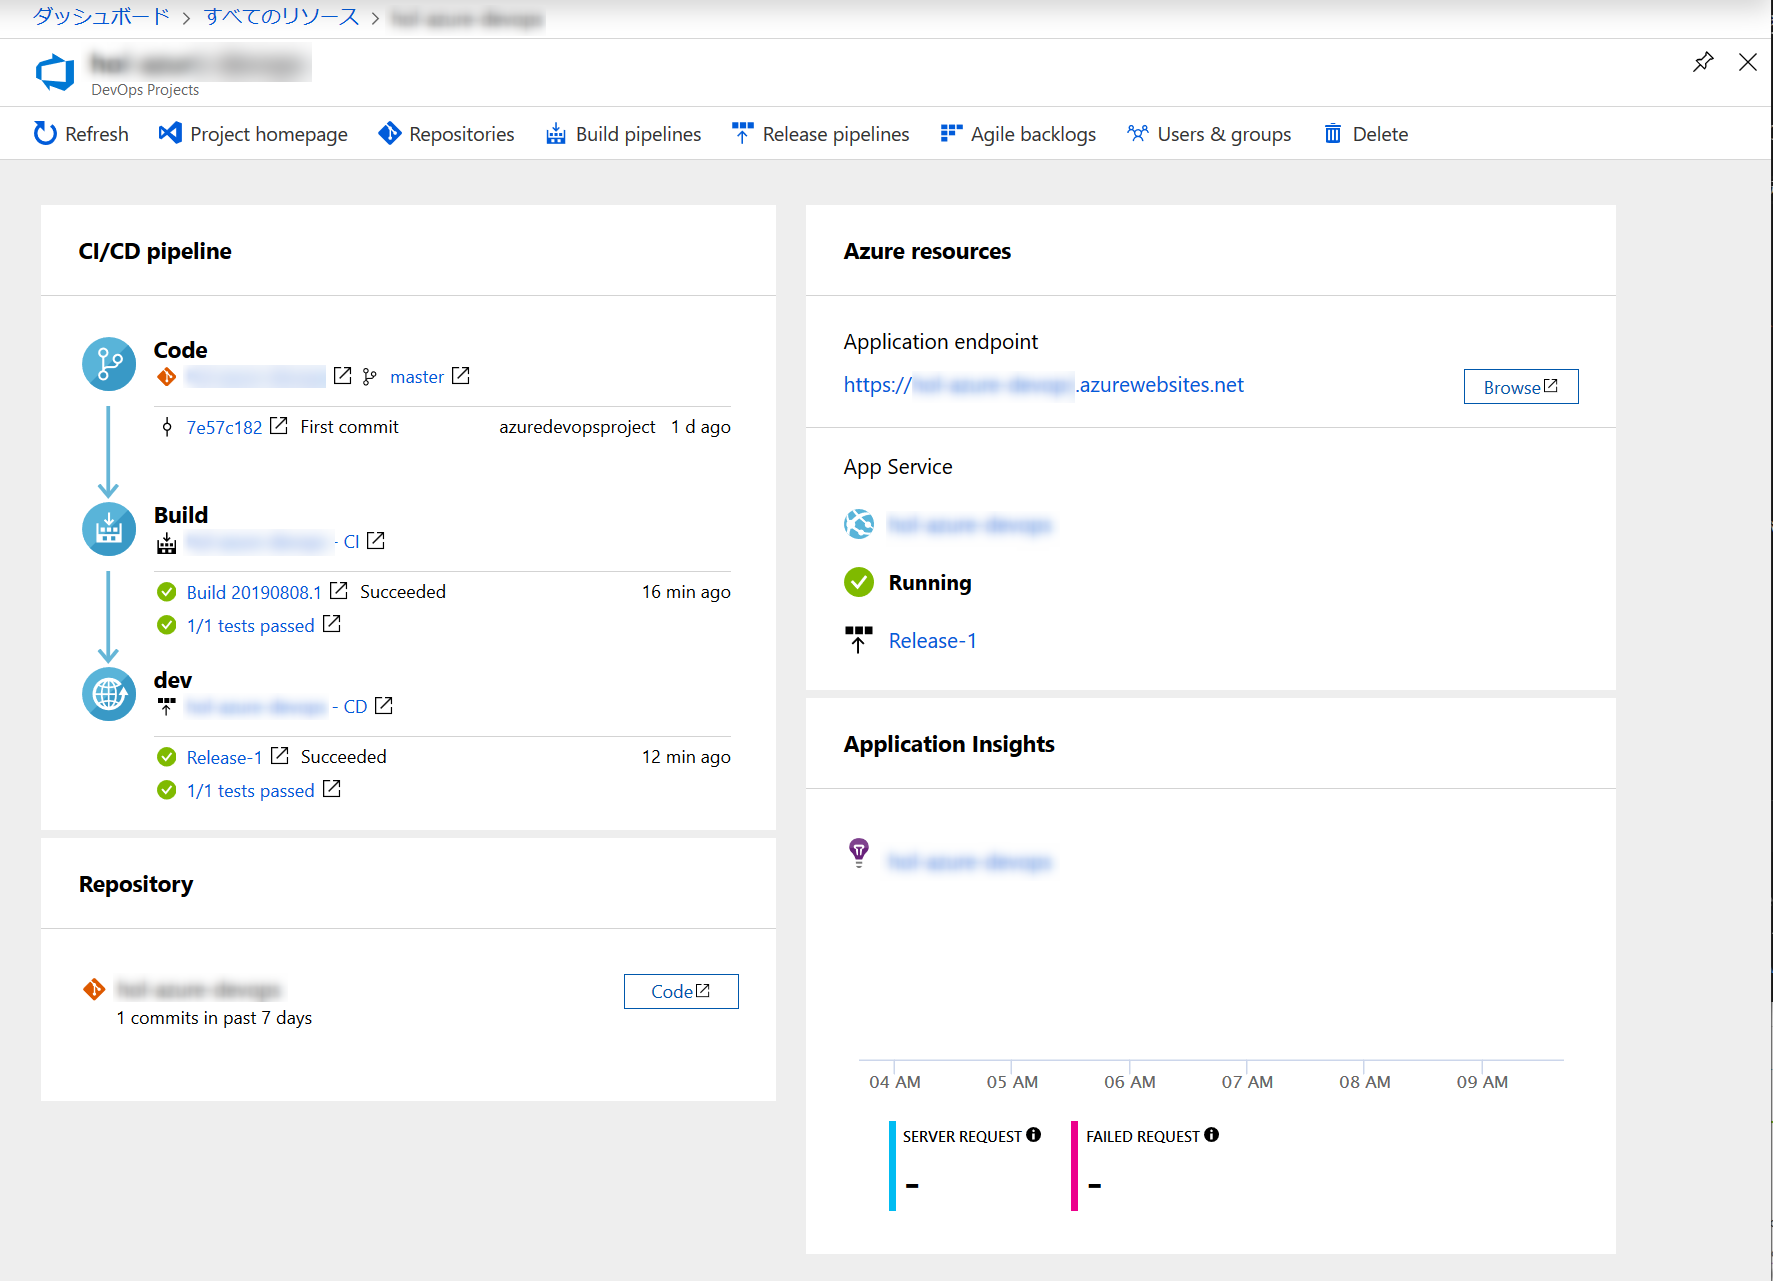
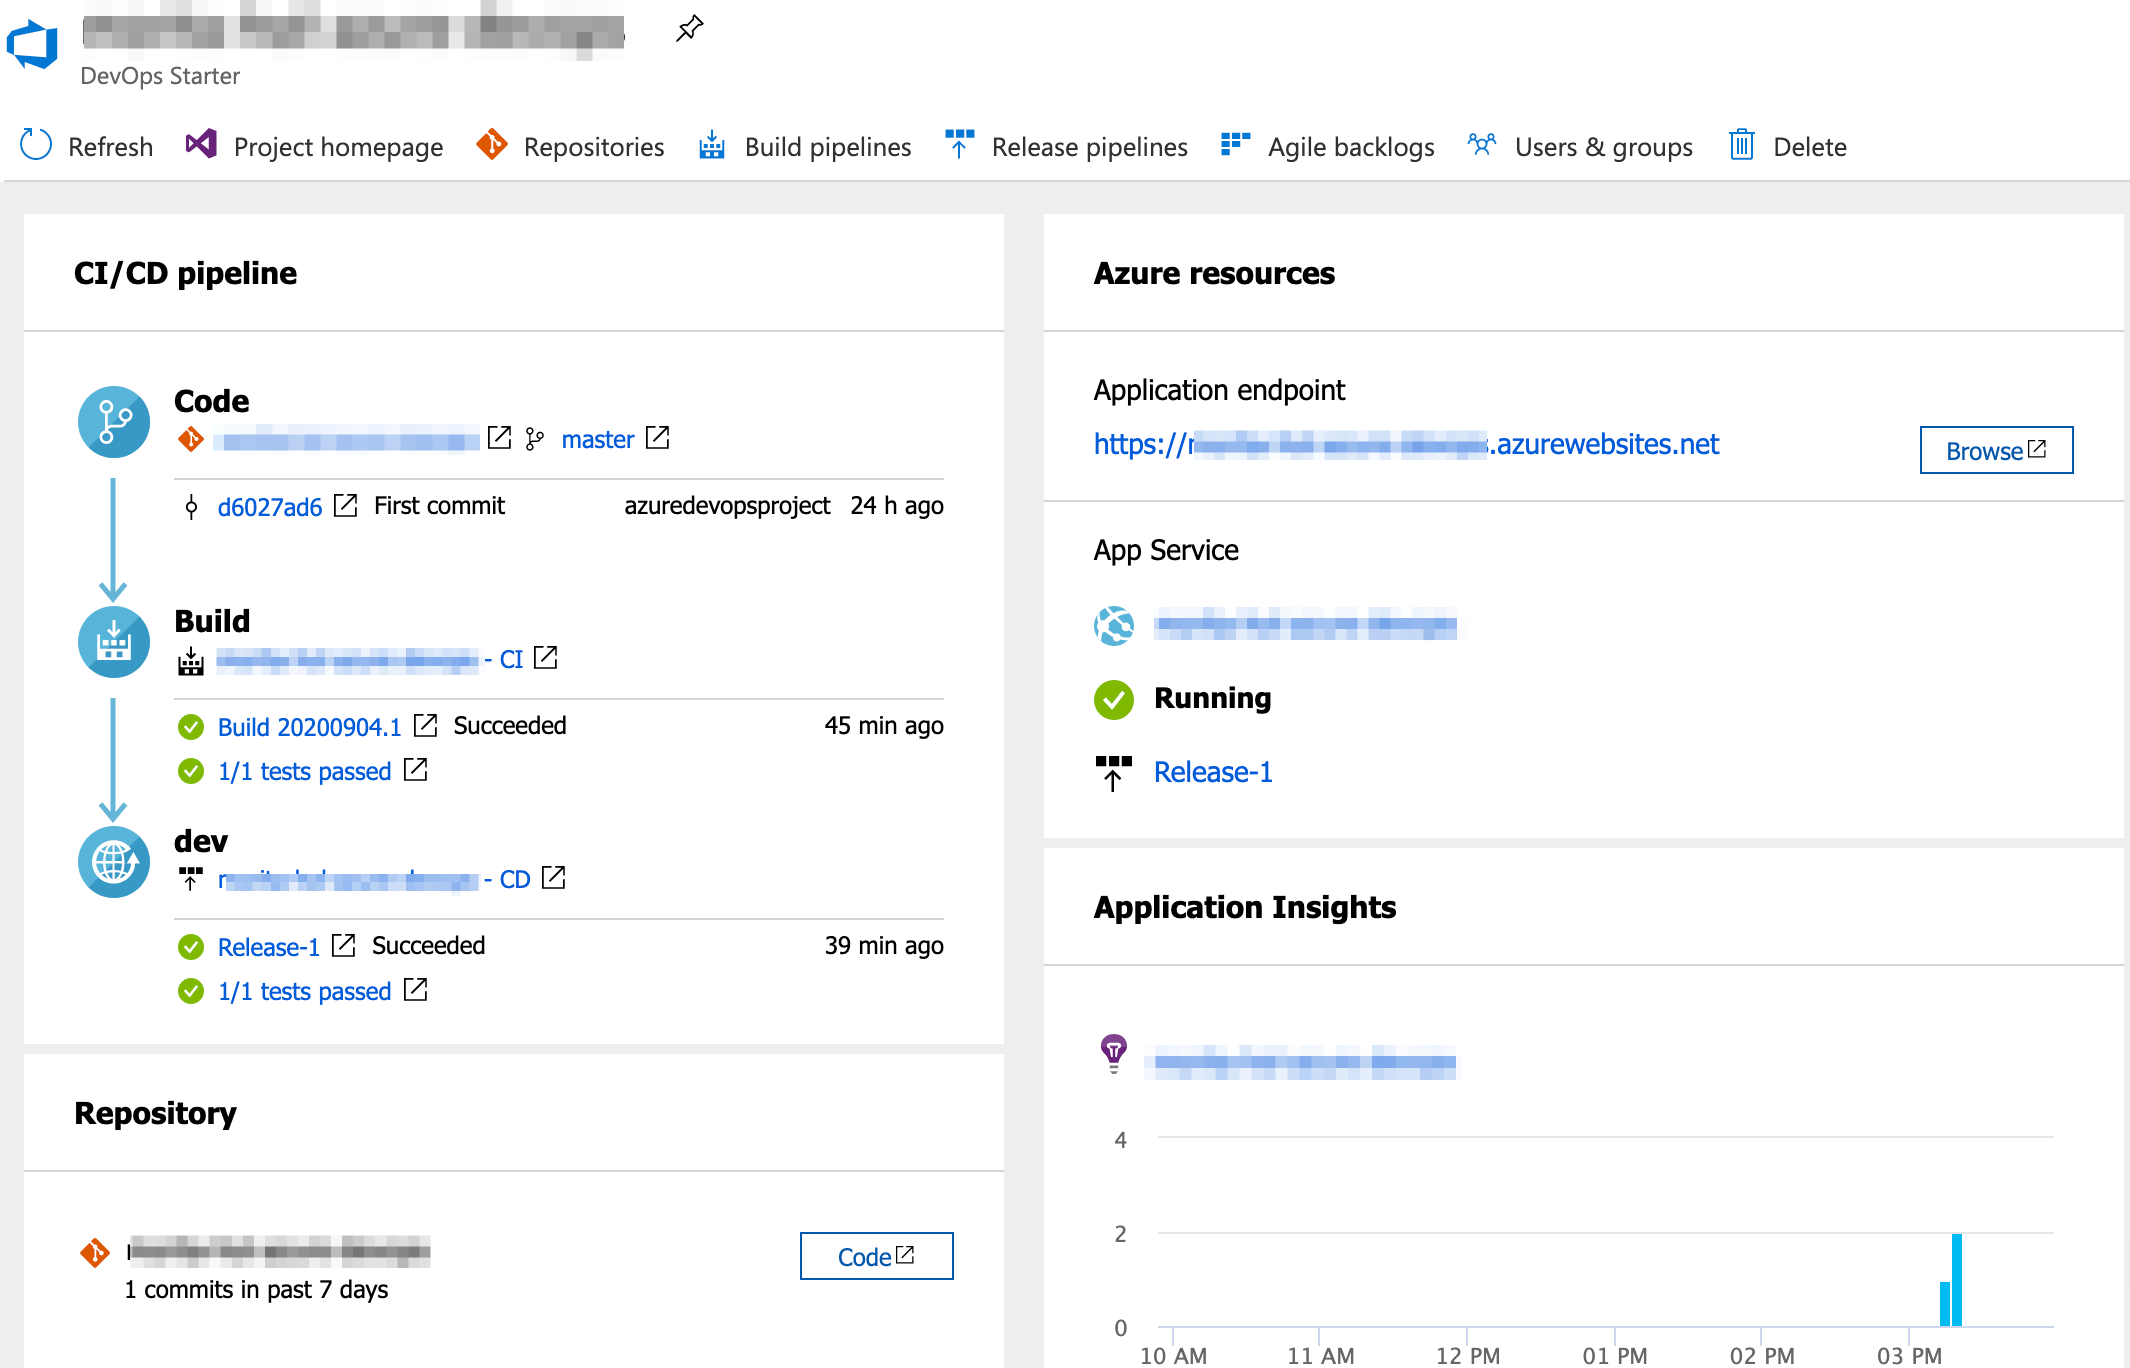
Update Azure DevOps Starter リソースの作成

diff --git a/README.md b/README.md
@@ -1,23 +1,27 @@
 # Azure DevOps を使用したハンズオン
+
 ## Azure DevOps とは
+
 [Azure DevOps Services | Microsoft Azure](https://azure.microsoft.com/ja-jp/services/devops/)
 
-## Azure DevOps Projects リソースの作成
+## Azure DevOps Starter リソースの作成
+
 **まずはサンプルのプロジェクトを作ってみましょう。**
 
-[Microsoft Azure ポータル](https://portal.azure.com/)にサインインする。  
+[Microsoft Azure ポータル](https://portal.azure.com/)にサインインする。
 このときハンズオンで使用するメールアドレスおよびパスワードでサインインすること。
 
-下記のドキュメントを参考に Azure DevOps Projects リソースを作成する。  
+下記のドキュメントを参考に Azure DevOps Starter リソースを作成する。
 入力項目はユニークである必要があるためチェックマークがつく内容を入力する必要がある。  
-[クイック スタート:Azure DevOps Projects を使用して .NET 用 CI/CD パイプラインを作成する | Microsoft Docs](https://docs.microsoft.com/ja-jp/azure/devops-project/azure-devops-project-aspnet-core)  
+
+[クイック スタート:Azure DevOps Start er を使用して .NET 用 CI/CD パイプラインを作成する | Microsoft Docs](https://docs.microsoft.com/ja-jp/azure/devops-project/azure-devops-project-aspnet-core)
 ※「Azure DevOps と Azure サブスクリプションを構成する」までを行う。
 
 ![01.png](./images/01.png)
 
-作成された Azure DevOps Projects リソースでは、サンプルのソースコードを用いた各種パイプラインや Web サーバーが構築されるため、 Web ページにアクセスし表示を確認する。
-
 ![02.png](./images/02.png)
+
+作成された Azure DevOps Starter リソースでは、サンプルのソースコードを用いた各種パイプラインや Web サーバーが構築されるため、 Web ページにアクセスし表示を確認する。
 
 ## 独自のプロジェクトの作成
 下記の構成で Azure DevOps Projects リソースを作成する。
